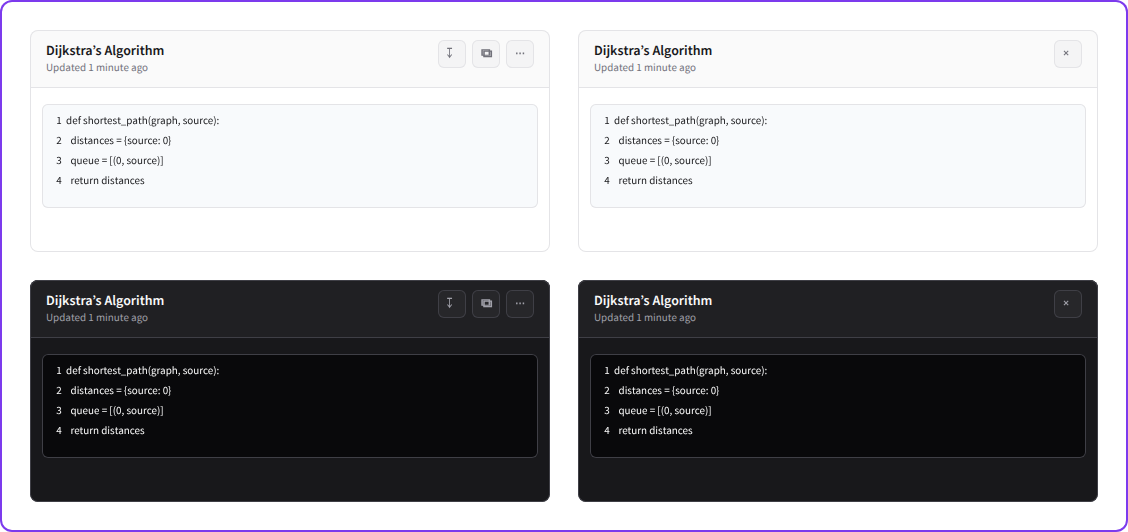
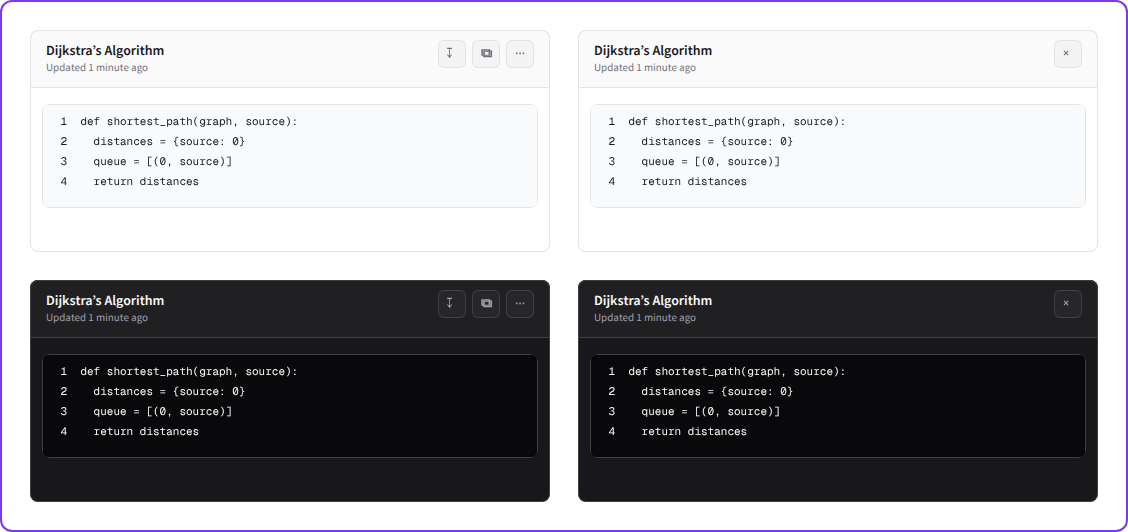
fix(penpot): compose artifact with code block

diff --git a/.aisteering/summaries/2026-08-23-artifact-code-block-composition.md b/.aisteering/summaries/2026-08-23-artifact-code-block-composition.md
@@ -1,0 +1,28 @@
+# Artifact Code Block composition correction
+
+Date: 2026-08-23
+
+## What changed
+
+- Replaced the replicated code rectangle and four text layers in every Artifact variant with a linked Numbered Code Block instance.
+- Used Light/Dark Code Block variants to match the containing Artifact theme and retained the example's borderless, headerless slot through instance overrides.
+- Propagated the published update to all four linked consumer-lab Artifact proofs and refreshed `penpot/exports/code/artifact.png`.
+- Saved Penpot version `Artifact composes Code Block @ 6a9d5b1`.
+
+## Why
+
+The pinned Artifact example composes `CodeBlock` inside `ArtifactContent`. The previous Penpot implementation copied its appearance with primitive layers, so shared Code Block typography and visual updates could not propagate.
+
+## Validation
+
+- Source-composition audit: Artifact and Sandbox are the only Code examples that import another Code-family component; Sandbox was already correctly linked.
+- Live shared library: four Artifact variants, one linked Code Block head per variant, zero replicated Artifact content layers, zero Penpot file validation errors.
+- Live consumer lab: four original Artifact roots remain linked; every nested Code Block remains linked to the correct Light/Dark Numbered UUID.
+- Focused Artifact behavior: 14 tests passed.
+- Binding tooling: 18 tests passed and 34 bindings validated.
+
+## Notes
+
+- Artifact, Code Block, variant, manifest, source-pin, and consumer-proof UUIDs are unchanged.
+- The React API and repository binding manifest are unchanged.
+- Voice retains the next shared Penpot writer slot.

diff --git a/.aisteering/scratchpads/2026-08-22-penpot-bindings.md b/.aisteering/scratchpads/2026-08-22-penpot-bindings.md
@@ -42,3 +42,4 @@ Date: 2026-08-22
 - Voice is the next serialized writer slot after the verified Code commit handoff. Do not begin Voice from the Code task.
 - The already-published `AI Elements` library was verified in published state and saved as explicit version `Code @ 6a9d5b1` after every Code gate passed.
 - 2026-08-23: Corrected all Code Block filename and code-content layers to `Geist Mono`, matching the pinned React `font-mono` contract. Published version `Code Block Geist Mono @ 6a9d5b1`; all six direct consumer proofs and nested Sandbox code content updated in place without detaching or changing component identities.
+- 2026-08-23: Rebuilt all four Artifact variants around linked Light/Dark Numbered Code Block instances, matching the example's `ArtifactContent > CodeBlock` composition. The remaining Code examples declare no other cross-family dependencies beyond Sandbox, which already links Code Block and Stack Trace. Published version `Artifact composes Code Block @ 6a9d5b1`; consumer proofs remain linked at both levels.

diff --git a/.aisteering/plans/active/ai-elements-penpot-library-rollout.md b/.aisteering/plans/active/ai-elements-penpot-library-rollout.md
@@ -63,7 +63,7 @@ Question is intentionally included from the pinned repository source and docs ev
 - [x] test-results
 - [x] web-preview
 
-Code adds 15 component families, 98 mapped variants, 98 linked consumer instances, and 15 checked reference PNGs. Code Block filenames and code-content layers use Geist Mono in every Light/Dark variant, including nested Sandbox instances. The preserved 19-entry Chatbot manifest slice retains its pre-Code canonical hash.
+Code adds 15 component families, 98 mapped variants, 98 linked consumer instances, and 15 checked reference PNGs. Code Block filenames and code-content layers use Geist Mono in every Light/Dark variant. Artifact composes linked Numbered Code Block instances, while Sandbox composes linked Code Block or Stack Trace instances according to the pinned examples. The preserved 19-entry Chatbot manifest slice retains its pre-Code canonical hash.
 
 ### 3. Voice — released after Code
 
